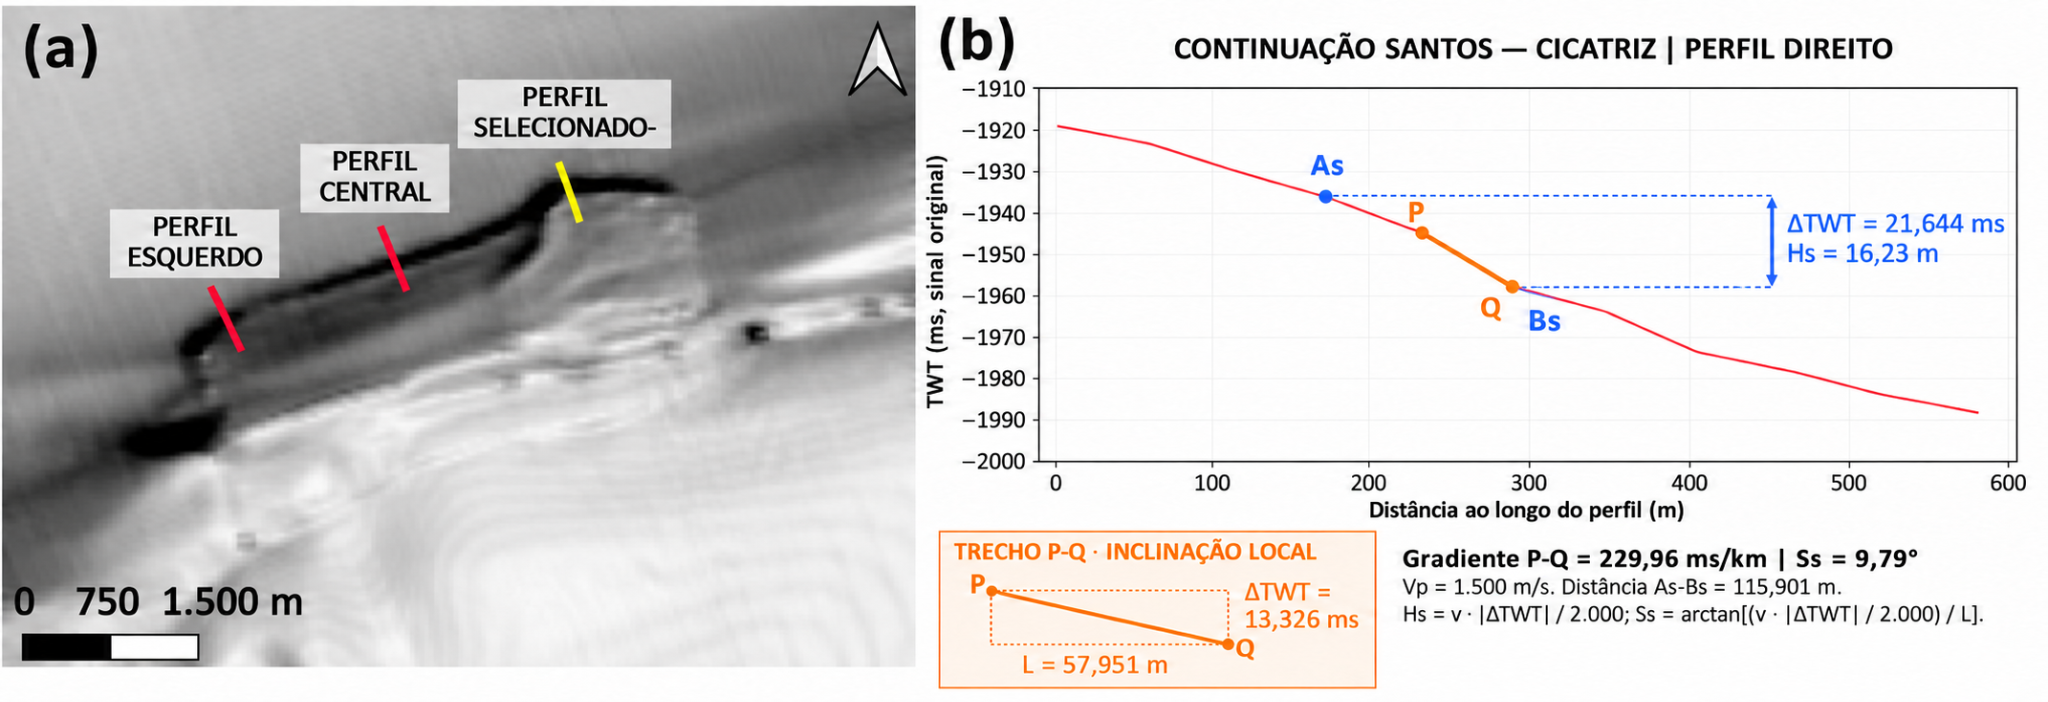
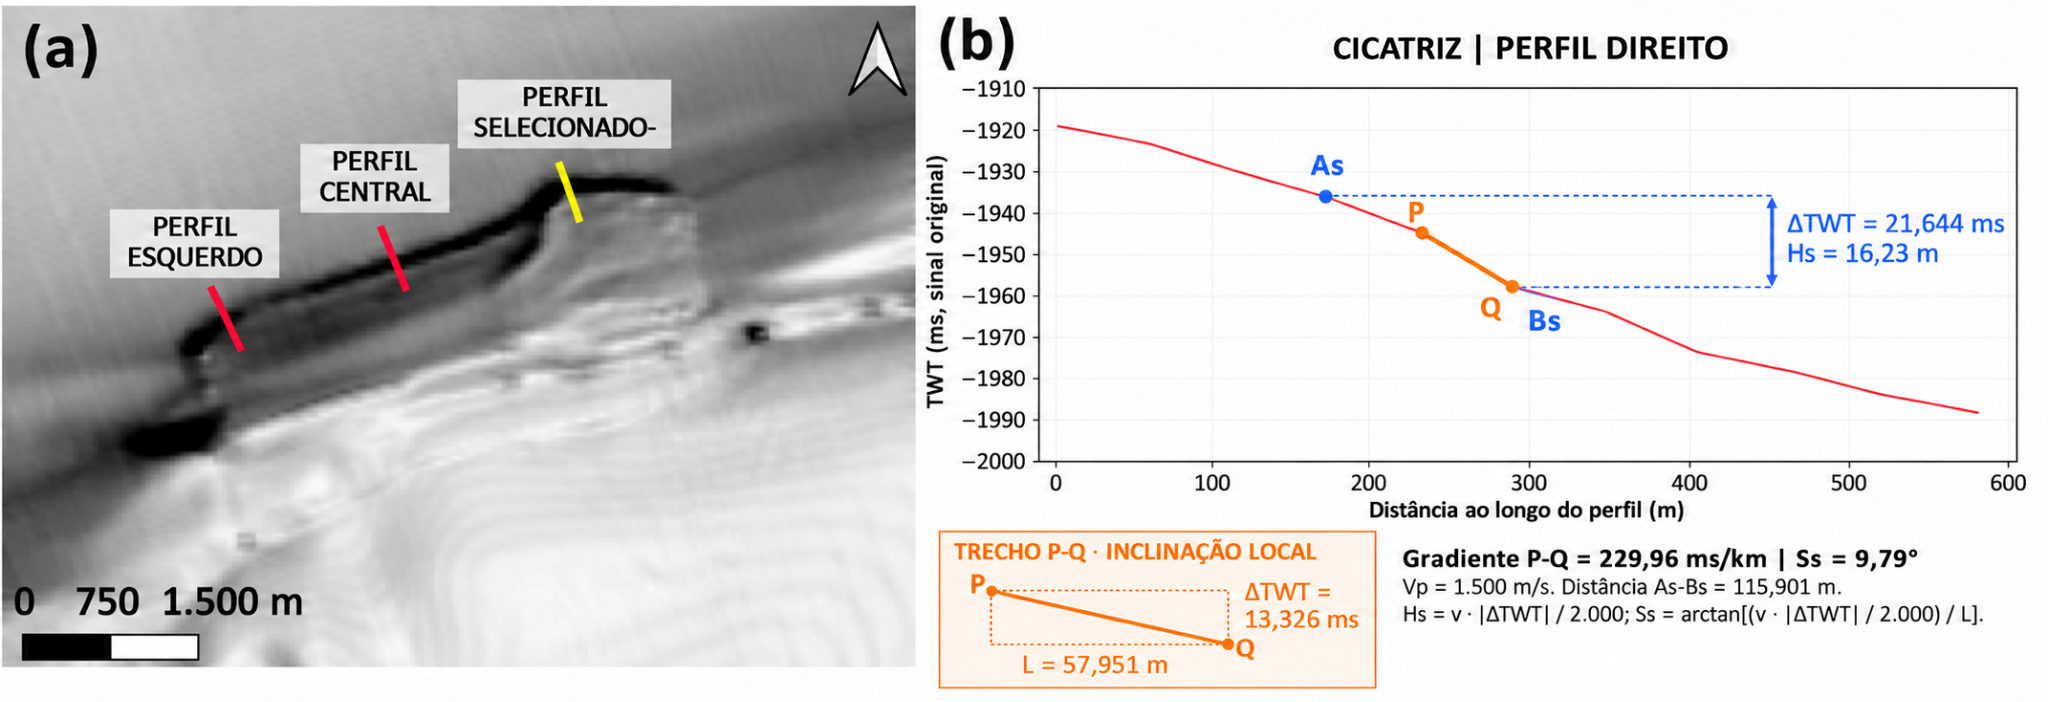
Preserva versão enviada e antecipa correções pós-banca

Changed region(s): [[0.5625, 0.0299, 0.9375, 0.0897]]

diff --git a/latex/dados.tex b/latex/dados.tex
@@ -4,11 +4,10 @@
 
 \newcommand{\AutorTCC}{Maria Eulália Alberton}
 \newcommand{\TituloTCC}{Caracterização sísmica de depósitos e complexos de transporte de massa no talude norte da Bacia de Santos}
-% O Google Docs usa títulos diferentes nas três páginas iniciais. Mantemos
-% cada versão literalmente para que o PDF reproduza o documento principal.
+% O mesmo título deve ser reproduzido em todos os elementos pré-textuais.
 \newcommand{\TituloCapaTCC}{Caracterização sísmica de depósitos e complexos de transporte de massa no talude norte da Bacia de Santos}
-\newcommand{\TituloFolhaRostoTCC}{Caracterização sísmica de depósitos e complexos de transporte de massa na porção norte da Bacia de Santos}
-\newcommand{\TituloAprovacaoTCC}{Caracterização sísmica de depósitos de movimento de massa no talude norte da Bacia de Santos}
+\newcommand{\TituloFolhaRostoTCC}{Caracterização sísmica de depósitos e complexos de transporte de massa no talude norte da Bacia de Santos}
+\newcommand{\TituloAprovacaoTCC}{Caracterização sísmica de depósitos e complexos de transporte de massa no talude norte da Bacia de Santos}
 \newcommand{\SubtituloTCC}{} % deixe vazio se não houver subtítulo
 
 \newcommand{\OrientadorTCC}{Prof. Antonio Henrique da Fontoura Klein, Dr.}

diff --git a/latex/capitulos/06-discussao.tex b/latex/capitulos/06-discussao.tex
@@ -198,7 +198,7 @@ A comparação entre os contextos indica que o relevo receptor contribuiu para o
 
 A sobreposição dos padrões sísmicos internos entre esses setores reforça essa interpretação. A maior preservação de refletores nas áreas de deflação sugere que a organização interna também depende da posição no movimento, enquanto o relevo condiciona sua distribuição espacial. Assim, a compartimentação geomorfológica organiza os percursos e a acumulação, enquanto a deformação varia internamente ao longo dos corpos.
 
-\subsection{Modelo conceitual para a área de estudo}\label{sec:6-7-5}
+\subsection{Modelo de evolução para a área de estudo}\label{sec:6-7-5}
 
 Para os MTDs 1 e 2, propõe-se um cenário de instabilidade associado à evolução do Canal de Santos, combinando alterações do suporte das encostas pela erosão e propriedades do substrato favoráveis à localização das rupturas. A posição das cicatrizes junto ao sistema canalizado constitui a principal evidência que orienta essa interpretação.
 

diff --git a/latex/capitulos/04-materiais-metodos.tex b/latex/capitulos/04-materiais-metodos.tex
@@ -516,7 +516,7 @@ A comparação entre as distribuições mensais indicou menores níveis de densi
 A partir das três componentes sísmicas, calculou-se a razão espectral entre a média geométrica dos espectros de amplitude das componentes horizontais e o espectro de amplitude da componente vertical:
 
 \begin{equation}
-  \operatorname{HVSR}(f)=\frac{\sqrt{\left([NS(f)]^2+[EW(f)]^2\right)/2}}{V(f)},
+  \operatorname{HVSR}(f)=\frac{\sqrt{NS(f)\,EW(f)}}{V(f)},
   \label{eq:hvsr}
 \end{equation}
 \equationdescription{Razão espectral horizontal/vertical}
